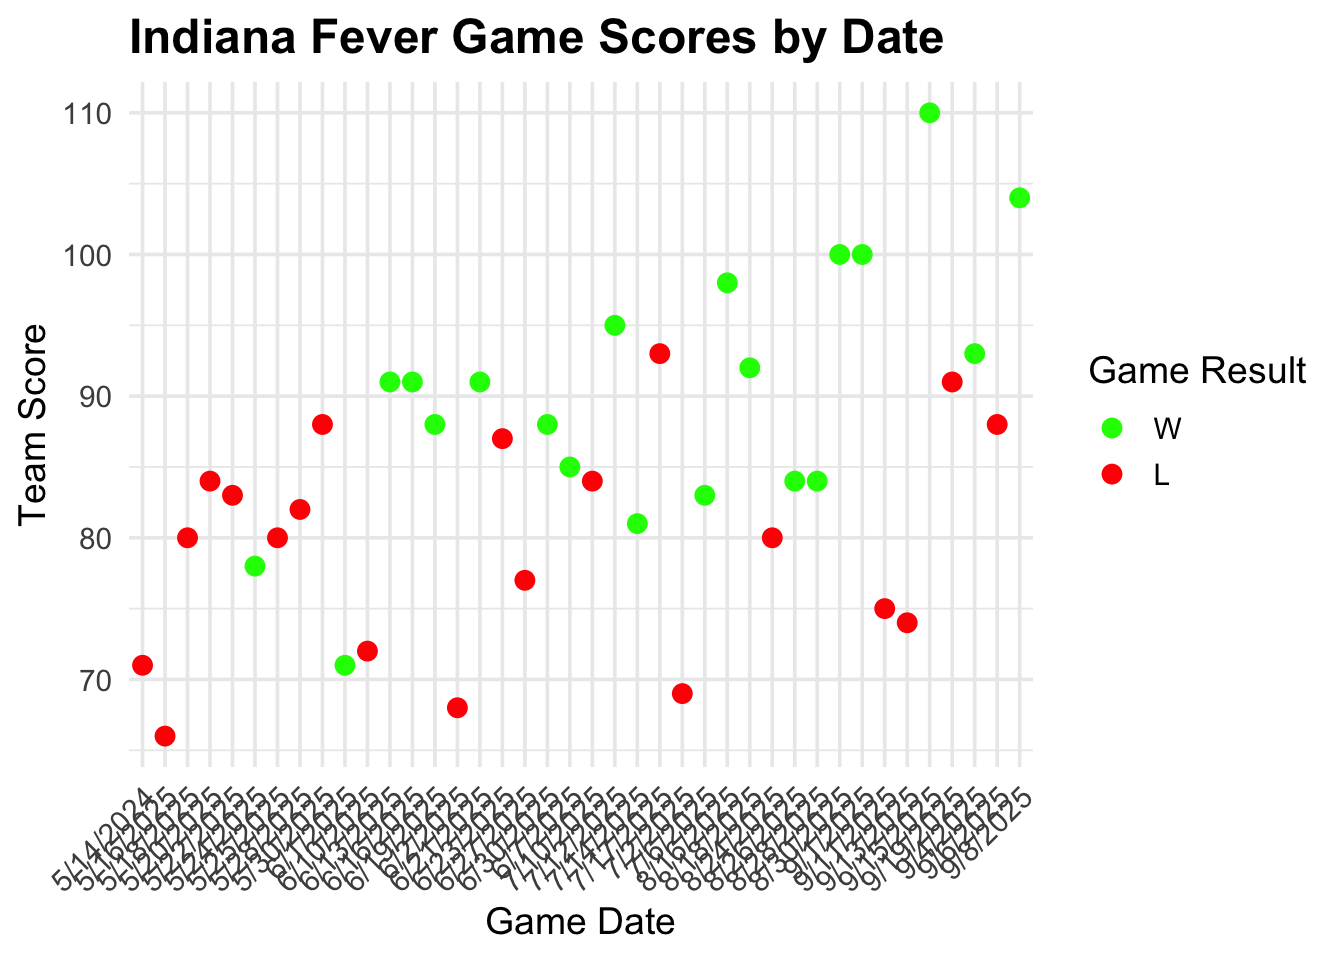
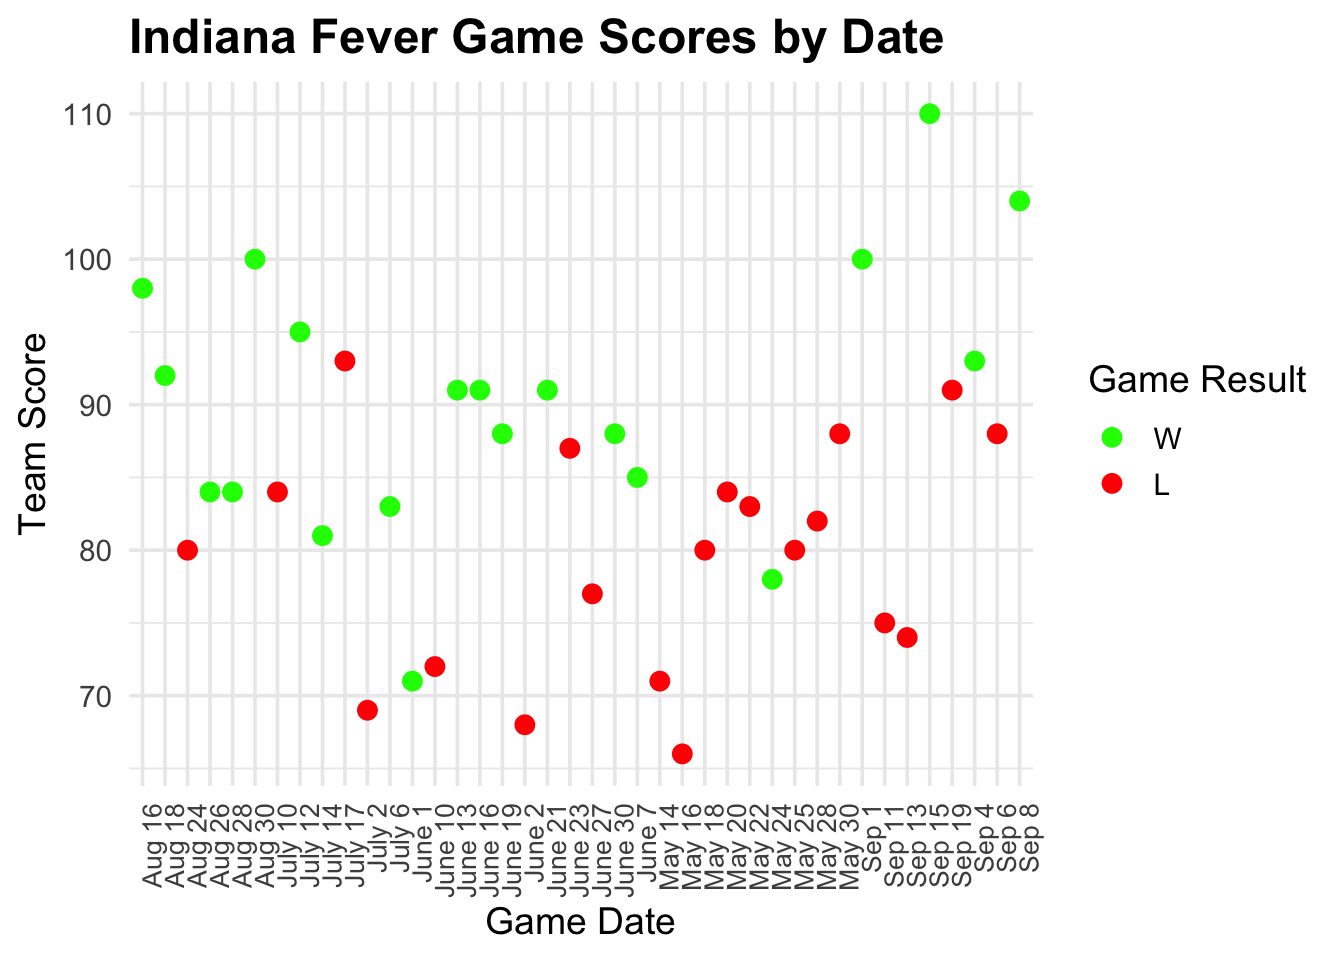
Written Blog

diff --git a/posts/caitlin-clarks-influence-on-indiana-fever/index.html b/posts/caitlin-clarks-influence-on-indiana-fever/index.html
@@ -195,7 +195,9 @@ pre > code.sourceCode > span > a:first-child::before { text-decoration: underlin
 
 
 
-<p>Despite finishing 14-26, Clark set the WNBA single-season assist record, averaged 19.2 points per game, and drove a 182% surge in ticket sales, proving her impact beyond wins and losses.</p>
+<p>Despite the Indiana Fever finishing their 2024 season with a not-great record of 20-20, Caitlin Clark, the number one WNBA draft pick of 2024, averaged 19.2 points per game, proving her impact beyond wins and losses.</p>
+<p>Coming off of 4 years at the University of Iowa, Clark was a household name. Objectively, Clark is a sharp point guard who’s three pointer shots were a trustworthy source of success for the Hawkeyes. Now in the WNBA, it’s debated across the sports world whether or not Caitlin Clark is as crucial to her team in her professional career as she was in college, leading the Hawkeyes to a record of 31-7 in 2023.</p>
+<p>To fully understand her influence, we start with her general stats. Interestingly enough, Clark’s rookie year statistics are similar to the top veteran players in the WNBA.</p>
 <div class="cell">
 <details class="code-fold">
 <summary>Code</summary>
@@ -261,33 +263,31 @@ pre > code.sourceCode > span > a:first-child::before { text-decoration: underlin
 </div>
 </div>
 </div>
+<p>We see that Caitlin Clark sits competitively in the top 10 point-collectors in the WNBA. Her average is similar to two-time gold medalist, Jewell Loyd’s, who was drafted to the WNBA in 2015 by the Seattle Storm. Clark sits only slightly behind Breanna Stewart, three-time gold medalist. Stewart was the first overall pick in the 2016 WNBA draft by the Seattle Storm. So why should we care? Let’s look at the season that Indiana had in 2024.</p>
 <div class="cell">
 <details class="code-fold">
 <summary>Code</summary>
-<div class="sourceCode cell-code" id="cb2"><pre class="sourceCode r code-with-copy"><code class="sourceCode r"><span id="cb2-1"><a href="#cb2-1" aria-hidden="true" tabindex="-1"></a><span class="co"># Load data</span></span>
-<span id="cb2-2"><a href="#cb2-2" aria-hidden="true" tabindex="-1"></a>IndianaFever <span class="ot">&lt;-</span> <span class="fu">read_csv</span>(<span class="st">"team_score.csv"</span>)</span>
-<span id="cb2-3"><a href="#cb2-3" aria-hidden="true" tabindex="-1"></a></span>
-<span id="cb2-4"><a href="#cb2-4" aria-hidden="true" tabindex="-1"></a><span class="co"># Select and prepare necessary columns</span></span>
-<span id="cb2-5"><a href="#cb2-5" aria-hidden="true" tabindex="-1"></a>IndianaFever <span class="ot">&lt;-</span> IndianaFever <span class="sc">%&gt;%</span></span>
-<span id="cb2-6"><a href="#cb2-6" aria-hidden="true" tabindex="-1"></a>  <span class="fu">select</span>(game_date, Score, <span class="st">`</span><span class="at">W/L</span><span class="st">`</span>) <span class="sc">%&gt;%</span></span>
-<span id="cb2-7"><a href="#cb2-7" aria-hidden="true" tabindex="-1"></a>  <span class="fu">mutate</span>(<span class="st">`</span><span class="at">W/L</span><span class="st">`</span> <span class="ot">=</span> <span class="fu">factor</span>(<span class="st">`</span><span class="at">W/L</span><span class="st">`</span>, <span class="at">levels =</span> <span class="fu">c</span>(<span class="st">"W"</span>, <span class="st">"L"</span>)))  <span class="co"># Ensure proper factor order</span></span>
-<span id="cb2-8"><a href="#cb2-8" aria-hidden="true" tabindex="-1"></a></span>
-<span id="cb2-9"><a href="#cb2-9" aria-hidden="true" tabindex="-1"></a><span class="co"># Create the plot</span></span>
-<span id="cb2-10"><a href="#cb2-10" aria-hidden="true" tabindex="-1"></a><span class="fu">ggplot</span>(IndianaFever, <span class="fu">aes</span>(<span class="at">x =</span> game_date, <span class="at">y =</span> Score)) <span class="sc">+</span></span>
-<span id="cb2-11"><a href="#cb2-11" aria-hidden="true" tabindex="-1"></a>  <span class="fu">geom_line</span>(<span class="at">color =</span> <span class="st">"gray40"</span>, <span class="at">size =</span> <span class="dv">1</span>) <span class="sc">+</span>  <span class="co"># Line showing score progression over time</span></span>
-<span id="cb2-12"><a href="#cb2-12" aria-hidden="true" tabindex="-1"></a>  <span class="fu">geom_point</span>(<span class="fu">aes</span>(<span class="at">color =</span> <span class="st">`</span><span class="at">W/L</span><span class="st">`</span>), <span class="at">size =</span> <span class="dv">3</span>) <span class="sc">+</span>  <span class="co"># Points colored by win/loss</span></span>
-<span id="cb2-13"><a href="#cb2-13" aria-hidden="true" tabindex="-1"></a>  <span class="fu">scale_color_manual</span>(<span class="at">values =</span> <span class="fu">c</span>(<span class="st">"W"</span> <span class="ot">=</span> <span class="st">"green"</span>, <span class="st">"L"</span> <span class="ot">=</span> <span class="st">"red"</span>)) <span class="sc">+</span></span>
-<span id="cb2-14"><a href="#cb2-14" aria-hidden="true" tabindex="-1"></a>  <span class="fu">labs</span>(</span>
-<span id="cb2-15"><a href="#cb2-15" aria-hidden="true" tabindex="-1"></a>    <span class="at">title =</span> <span class="st">"Indiana Fever Game Scores by Date"</span>,</span>
-<span id="cb2-16"><a href="#cb2-16" aria-hidden="true" tabindex="-1"></a>    <span class="at">x =</span> <span class="st">"Game Date"</span>,</span>
-<span id="cb2-17"><a href="#cb2-17" aria-hidden="true" tabindex="-1"></a>    <span class="at">y =</span> <span class="st">"Team Score"</span>,</span>
-<span id="cb2-18"><a href="#cb2-18" aria-hidden="true" tabindex="-1"></a>    <span class="at">color =</span> <span class="st">"Game Result"</span></span>
-<span id="cb2-19"><a href="#cb2-19" aria-hidden="true" tabindex="-1"></a>  ) <span class="sc">+</span></span>
-<span id="cb2-20"><a href="#cb2-20" aria-hidden="true" tabindex="-1"></a>  <span class="fu">theme_minimal</span>(<span class="at">base_size =</span> <span class="dv">14</span>) <span class="sc">+</span></span>
-<span id="cb2-21"><a href="#cb2-21" aria-hidden="true" tabindex="-1"></a>  <span class="fu">theme</span>(</span>
-<span id="cb2-22"><a href="#cb2-22" aria-hidden="true" tabindex="-1"></a>    <span class="at">axis.text.x =</span> <span class="fu">element_text</span>(<span class="at">angle =</span> <span class="dv">45</span>, <span class="at">hjust =</span> <span class="dv">1</span>),</span>
-<span id="cb2-23"><a href="#cb2-23" aria-hidden="true" tabindex="-1"></a>    <span class="at">plot.title =</span> <span class="fu">element_text</span>(<span class="at">size =</span> <span class="dv">18</span>, <span class="at">face =</span> <span class="st">"bold"</span>)</span>
-<span id="cb2-24"><a href="#cb2-24" aria-hidden="true" tabindex="-1"></a>  )</span></code><button title="Copy to Clipboard" class="code-copy-button"><i class="bi"></i></button></pre></div>
+<div class="sourceCode cell-code" id="cb2"><pre class="sourceCode r code-with-copy"><code class="sourceCode r"><span id="cb2-1"><a href="#cb2-1" aria-hidden="true" tabindex="-1"></a>IndianaFever <span class="ot">&lt;-</span> <span class="fu">read_csv</span>(<span class="st">"team_score.csv"</span>)</span>
+<span id="cb2-2"><a href="#cb2-2" aria-hidden="true" tabindex="-1"></a></span>
+<span id="cb2-3"><a href="#cb2-3" aria-hidden="true" tabindex="-1"></a>IndianaFever <span class="ot">&lt;-</span> IndianaFever <span class="sc">%&gt;%</span></span>
+<span id="cb2-4"><a href="#cb2-4" aria-hidden="true" tabindex="-1"></a>  <span class="fu">select</span>(game_date, Score, <span class="st">`</span><span class="at">W/L</span><span class="st">`</span>) <span class="sc">%&gt;%</span></span>
+<span id="cb2-5"><a href="#cb2-5" aria-hidden="true" tabindex="-1"></a>  <span class="fu">mutate</span>(<span class="st">`</span><span class="at">W/L</span><span class="st">`</span> <span class="ot">=</span> <span class="fu">factor</span>(<span class="st">`</span><span class="at">W/L</span><span class="st">`</span>, <span class="at">levels =</span> <span class="fu">c</span>(<span class="st">"W"</span>, <span class="st">"L"</span>)))  </span>
+<span id="cb2-6"><a href="#cb2-6" aria-hidden="true" tabindex="-1"></a></span>
+<span id="cb2-7"><a href="#cb2-7" aria-hidden="true" tabindex="-1"></a><span class="fu">ggplot</span>(IndianaFever, <span class="fu">aes</span>(<span class="at">x =</span> game_date, <span class="at">y =</span> Score)) <span class="sc">+</span></span>
+<span id="cb2-8"><a href="#cb2-8" aria-hidden="true" tabindex="-1"></a>  <span class="fu">geom_line</span>(<span class="at">color =</span> <span class="st">"gray40"</span>, <span class="at">size =</span> <span class="dv">1</span>) <span class="sc">+</span>  </span>
+<span id="cb2-9"><a href="#cb2-9" aria-hidden="true" tabindex="-1"></a>  <span class="fu">geom_point</span>(<span class="fu">aes</span>(<span class="at">color =</span> <span class="st">`</span><span class="at">W/L</span><span class="st">`</span>), <span class="at">size =</span> <span class="dv">3</span>) <span class="sc">+</span>  </span>
+<span id="cb2-10"><a href="#cb2-10" aria-hidden="true" tabindex="-1"></a>  <span class="fu">scale_color_manual</span>(<span class="at">values =</span> <span class="fu">c</span>(<span class="st">"W"</span> <span class="ot">=</span> <span class="st">"green"</span>, <span class="st">"L"</span> <span class="ot">=</span> <span class="st">"red"</span>)) <span class="sc">+</span></span>
+<span id="cb2-11"><a href="#cb2-11" aria-hidden="true" tabindex="-1"></a>  <span class="fu">labs</span>(</span>
+<span id="cb2-12"><a href="#cb2-12" aria-hidden="true" tabindex="-1"></a>    <span class="at">title =</span> <span class="st">"Indiana Fever Game Scores by Date"</span>,</span>
+<span id="cb2-13"><a href="#cb2-13" aria-hidden="true" tabindex="-1"></a>    <span class="at">x =</span> <span class="st">"Game Date"</span>,</span>
+<span id="cb2-14"><a href="#cb2-14" aria-hidden="true" tabindex="-1"></a>    <span class="at">y =</span> <span class="st">"Team Score"</span>,</span>
+<span id="cb2-15"><a href="#cb2-15" aria-hidden="true" tabindex="-1"></a>    <span class="at">color =</span> <span class="st">"Game Result"</span></span>
+<span id="cb2-16"><a href="#cb2-16" aria-hidden="true" tabindex="-1"></a>  ) <span class="sc">+</span></span>
+<span id="cb2-17"><a href="#cb2-17" aria-hidden="true" tabindex="-1"></a>  <span class="fu">theme_minimal</span>(<span class="at">base_size =</span> <span class="dv">14</span>) <span class="sc">+</span></span>
+<span id="cb2-18"><a href="#cb2-18" aria-hidden="true" tabindex="-1"></a>  <span class="fu">theme</span>(</span>
+<span id="cb2-19"><a href="#cb2-19" aria-hidden="true" tabindex="-1"></a>    <span class="at">axis.text.x =</span> <span class="fu">element_text</span>(<span class="at">size =</span> <span class="dv">10</span>, <span class="at">angle =</span> <span class="dv">90</span>, <span class="at">hjust =</span> <span class="dv">1</span>),</span>
+<span id="cb2-20"><a href="#cb2-20" aria-hidden="true" tabindex="-1"></a>    <span class="at">plot.title =</span> <span class="fu">element_text</span>(<span class="at">size =</span> <span class="dv">18</span>, <span class="at">face =</span> <span class="st">"bold"</span>)</span>
+<span id="cb2-21"><a href="#cb2-21" aria-hidden="true" tabindex="-1"></a>  )</span></code><button title="Copy to Clipboard" class="code-copy-button"><i class="bi"></i></button></pre></div>
 </details>
 <div class="cell-output-display">
 <div>
@@ -297,6 +297,7 @@ pre > code.sourceCode > span > a:first-child::before { text-decoration: underlin
 </div>
 </div>
 </div>
+<p>The Fever had just as many losses as wins in 2024. A 20-20 record doesn’t seem that great when it places them 6th in the league out of 12 teams. Except for the fact that the Fever finished 2024 with their best season record since 2012. The Fever qualified for the playoffs in 2024. That’s the first time since 2016. Now let’s see what exactly changed that boosted the Indiana Fever to have such a, relatively, great season in 2024.</p>
 <div class="cell">
 <details class="code-fold">
 <summary>Code</summary>
@@ -305,38 +306,27 @@ pre > code.sourceCode > span > a:first-child::before { text-decoration: underlin
 <span id="cb3-3"><a href="#cb3-3" aria-hidden="true" tabindex="-1"></a>  <span class="fu">mutate</span>(</span>
 <span id="cb3-4"><a href="#cb3-4" aria-hidden="true" tabindex="-1"></a>    <span class="at">Rest_of_Team =</span> Score <span class="sc">-</span> points,  </span>
 <span id="cb3-5"><a href="#cb3-5" aria-hidden="true" tabindex="-1"></a>    <span class="at">win =</span> <span class="fu">if_else</span>(<span class="st">`</span><span class="at">W/L</span><span class="st">`</span> <span class="sc">==</span> <span class="st">"W"</span>, <span class="st">"Win"</span>, <span class="st">"Loss"</span>)  </span>
-<span id="cb3-6"><a href="#cb3-6" aria-hidden="true" tabindex="-1"></a>  )</span></code><button title="Copy to Clipboard" class="code-copy-button"><i class="bi"></i></button></pre></div>
-</details>
-<div class="cell-output cell-output-stderr">
-<pre><code>New names:
-Rows: 40 Columns: 6
-── Column specification
-──────────────────────────────────────────────────────── Delimiter: "," chr
-(3): W/L, Opponent, game_date dbl (2): Score, points lgl (1): ...1
-ℹ Use `spec()` to retrieve the full column specification for this data. ℹ
-Specify the column types or set `show_col_types = FALSE` to quiet this message.
-• `` -&gt; `...1`</code></pre>
-</div>
-<details class="code-fold">
-<summary>Code</summary>
-<div class="sourceCode cell-code" id="cb5"><pre class="sourceCode r code-with-copy"><code class="sourceCode r"><span id="cb5-1"><a href="#cb5-1" aria-hidden="true" tabindex="-1"></a>IndianaFever <span class="ot">&lt;-</span> IndianaFever <span class="sc">%&gt;%</span></span>
-<span id="cb5-2"><a href="#cb5-2" aria-hidden="true" tabindex="-1"></a>  <span class="fu">filter</span>(<span class="sc">!</span><span class="fu">is.na</span>(points), <span class="sc">!</span><span class="fu">is.na</span>(win), <span class="sc">!</span><span class="fu">is.na</span>(Score))</span>
-<span id="cb5-3"><a href="#cb5-3" aria-hidden="true" tabindex="-1"></a></span>
-<span id="cb5-4"><a href="#cb5-4" aria-hidden="true" tabindex="-1"></a><span class="fu">ggplot</span>(IndianaFever, <span class="fu">aes</span>(<span class="at">x =</span> Score, <span class="at">y =</span> points, <span class="at">size =</span> win, <span class="at">color =</span> win)) <span class="sc">+</span></span>
-<span id="cb5-5"><a href="#cb5-5" aria-hidden="true" tabindex="-1"></a>  <span class="fu">geom_point</span>(<span class="at">alpha =</span> <span class="fl">0.7</span>) <span class="sc">+</span></span>
-<span id="cb5-6"><a href="#cb5-6" aria-hidden="true" tabindex="-1"></a>  <span class="fu">scale_size_manual</span>(<span class="at">values =</span> <span class="fu">c</span>(<span class="st">"Loss"</span> <span class="ot">=</span> <span class="dv">4</span>, <span class="st">"Win"</span> <span class="ot">=</span> <span class="dv">10</span>)) <span class="sc">+</span></span>
-<span id="cb5-7"><a href="#cb5-7" aria-hidden="true" tabindex="-1"></a>  <span class="fu">scale_color_manual</span>(<span class="at">values =</span> <span class="fu">c</span>(<span class="st">"Win"</span> <span class="ot">=</span> <span class="st">"green"</span>, <span class="st">"Loss"</span> <span class="ot">=</span> <span class="st">"red"</span>)) <span class="sc">+</span></span>
-<span id="cb5-8"><a href="#cb5-8" aria-hidden="true" tabindex="-1"></a>  <span class="fu">labs</span>(</span>
-<span id="cb5-9"><a href="#cb5-9" aria-hidden="true" tabindex="-1"></a>    <span class="at">title =</span> <span class="st">"Caitlin Controls The Fever's Numbers"</span>,</span>
-<span id="cb5-10"><a href="#cb5-10" aria-hidden="true" tabindex="-1"></a>    <span class="at">x =</span> <span class="st">"Indiana Fever's Final Score"</span>,</span>
-<span id="cb5-11"><a href="#cb5-11" aria-hidden="true" tabindex="-1"></a>    <span class="at">y =</span> <span class="st">"Caitlin Clark's Points"</span>,</span>
-<span id="cb5-12"><a href="#cb5-12" aria-hidden="true" tabindex="-1"></a>    <span class="at">size =</span> <span class="st">"Game Result"</span>,</span>
-<span id="cb5-13"><a href="#cb5-13" aria-hidden="true" tabindex="-1"></a>    <span class="at">color =</span> <span class="st">"Game Result"</span></span>
-<span id="cb5-14"><a href="#cb5-14" aria-hidden="true" tabindex="-1"></a>  ) <span class="sc">+</span></span>
-<span id="cb5-15"><a href="#cb5-15" aria-hidden="true" tabindex="-1"></a>  <span class="fu">theme_minimal</span>(<span class="at">base_size =</span> <span class="dv">14</span>) <span class="sc">+</span></span>
-<span id="cb5-16"><a href="#cb5-16" aria-hidden="true" tabindex="-1"></a>  <span class="fu">theme</span>(</span>
-<span id="cb5-17"><a href="#cb5-17" aria-hidden="true" tabindex="-1"></a>    <span class="at">plot.title =</span> <span class="fu">element_text</span>(<span class="at">size =</span> <span class="dv">18</span>, <span class="at">face =</span> <span class="st">"bold"</span>)</span>
-<span id="cb5-18"><a href="#cb5-18" aria-hidden="true" tabindex="-1"></a>  )</span></code><button title="Copy to Clipboard" class="code-copy-button"><i class="bi"></i></button></pre></div>
+<span id="cb3-6"><a href="#cb3-6" aria-hidden="true" tabindex="-1"></a>  )</span>
+<span id="cb3-7"><a href="#cb3-7" aria-hidden="true" tabindex="-1"></a></span>
+<span id="cb3-8"><a href="#cb3-8" aria-hidden="true" tabindex="-1"></a></span>
+<span id="cb3-9"><a href="#cb3-9" aria-hidden="true" tabindex="-1"></a>IndianaFever <span class="ot">&lt;-</span> IndianaFever <span class="sc">%&gt;%</span></span>
+<span id="cb3-10"><a href="#cb3-10" aria-hidden="true" tabindex="-1"></a>  <span class="fu">filter</span>(<span class="sc">!</span><span class="fu">is.na</span>(points), <span class="sc">!</span><span class="fu">is.na</span>(win), <span class="sc">!</span><span class="fu">is.na</span>(Score))</span>
+<span id="cb3-11"><a href="#cb3-11" aria-hidden="true" tabindex="-1"></a></span>
+<span id="cb3-12"><a href="#cb3-12" aria-hidden="true" tabindex="-1"></a><span class="fu">ggplot</span>(IndianaFever, <span class="fu">aes</span>(<span class="at">x =</span> Score, <span class="at">y =</span> points, <span class="at">size =</span> win, <span class="at">color =</span> win)) <span class="sc">+</span></span>
+<span id="cb3-13"><a href="#cb3-13" aria-hidden="true" tabindex="-1"></a>  <span class="fu">geom_point</span>(<span class="at">alpha =</span> <span class="fl">0.7</span>) <span class="sc">+</span></span>
+<span id="cb3-14"><a href="#cb3-14" aria-hidden="true" tabindex="-1"></a>  <span class="fu">scale_size_manual</span>(<span class="at">values =</span> <span class="fu">c</span>(<span class="st">"Loss"</span> <span class="ot">=</span> <span class="dv">4</span>, <span class="st">"Win"</span> <span class="ot">=</span> <span class="dv">10</span>)) <span class="sc">+</span></span>
+<span id="cb3-15"><a href="#cb3-15" aria-hidden="true" tabindex="-1"></a>  <span class="fu">scale_color_manual</span>(<span class="at">values =</span> <span class="fu">c</span>(<span class="st">"Win"</span> <span class="ot">=</span> <span class="st">"green"</span>, <span class="st">"Loss"</span> <span class="ot">=</span> <span class="st">"red"</span>)) <span class="sc">+</span></span>
+<span id="cb3-16"><a href="#cb3-16" aria-hidden="true" tabindex="-1"></a>  <span class="fu">labs</span>(</span>
+<span id="cb3-17"><a href="#cb3-17" aria-hidden="true" tabindex="-1"></a>    <span class="at">title =</span> <span class="st">"Caitlin Controls The Fever's Numbers"</span>,</span>
+<span id="cb3-18"><a href="#cb3-18" aria-hidden="true" tabindex="-1"></a>    <span class="at">x =</span> <span class="st">"Indiana Fever's Final Score"</span>,</span>
+<span id="cb3-19"><a href="#cb3-19" aria-hidden="true" tabindex="-1"></a>    <span class="at">y =</span> <span class="st">"Caitlin Clark's Points"</span>,</span>
+<span id="cb3-20"><a href="#cb3-20" aria-hidden="true" tabindex="-1"></a>    <span class="at">size =</span> <span class="st">"Game Result"</span>,</span>
+<span id="cb3-21"><a href="#cb3-21" aria-hidden="true" tabindex="-1"></a>    <span class="at">color =</span> <span class="st">"Game Result"</span></span>
+<span id="cb3-22"><a href="#cb3-22" aria-hidden="true" tabindex="-1"></a>  ) <span class="sc">+</span></span>
+<span id="cb3-23"><a href="#cb3-23" aria-hidden="true" tabindex="-1"></a>  <span class="fu">theme_minimal</span>(<span class="at">base_size =</span> <span class="dv">14</span>) <span class="sc">+</span></span>
+<span id="cb3-24"><a href="#cb3-24" aria-hidden="true" tabindex="-1"></a>  <span class="fu">theme</span>(</span>
+<span id="cb3-25"><a href="#cb3-25" aria-hidden="true" tabindex="-1"></a>    <span class="at">plot.title =</span> <span class="fu">element_text</span>(<span class="at">size =</span> <span class="dv">18</span>, <span class="at">face =</span> <span class="st">"bold"</span>)</span>
+<span id="cb3-26"><a href="#cb3-26" aria-hidden="true" tabindex="-1"></a>  )</span></code><button title="Copy to Clipboard" class="code-copy-button"><i class="bi"></i></button></pre></div>
 </details>
 <div class="cell-output-display">
 <div>
@@ -346,6 +336,7 @@ Specify the column types or set `show_col_types = FALSE` to quiet this message.
 </div>
 </div>
 </div>
+<p>The games that Caitlin Clark scored more points in, the team projected success. The games that Clark had less points scored individually, the team was more often to lose. If we were to base our expectations of the Indiana Fever’s future seasons, I’d say as long as they have Caitlin Clark as a trustworthy point guard, it’s only up from here.</p>
 
 
 

diff --git a/index.html b/index.html
@@ -210,10 +210,10 @@ window.Quarto = {
 
 <div class="quarto-listing quarto-listing-container-default" id="listing-listing">
 <div class="list quarto-listing-default">
-<div class="quarto-post image-right" data-index="0" data-categories="d25iYSUyQ2Jhc2tldGJhbGwlMkNpbmRpYW5h" data-listing-date-sort="1743483600000" data-listing-file-modified-sort="1744667263957" data-listing-date-modified-sort="NaN" data-listing-reading-time-sort="3" data-listing-word-count-sort="595">
+<div class="quarto-post image-right" data-index="0" data-categories="d25iYSUyQ2Jhc2tldGJhbGwlMkNpbmRpYW5h" data-listing-date-sort="1743483600000" data-listing-file-modified-sort="1744670767640" data-listing-date-modified-sort="NaN" data-listing-reading-time-sort="5" data-listing-word-count-sort="936">
 <div class="thumbnail">
 <p><a href="./posts/caitlin-clarks-influence-on-indiana-fever/index.html" class="no-external"></a></p><a href="./posts/caitlin-clarks-influence-on-indiana-fever/index.html" class="no-external">
-<p><img loading="lazy" src="./posts/caitlin-clarks-influence-on-indiana-fever/Headshot copy.jpg" class="thumbnail-image"></p>
+<p><img loading="lazy" src="./posts/caitlin-clarks-influence-on-indiana-fever/image.png" class="thumbnail-image"></p>
 </a><p><a href="./posts/caitlin-clarks-influence-on-indiana-fever/index.html" class="no-external"></a></p>
 </div>
 <div class="body">
@@ -235,7 +235,7 @@ indiana
 </div>
 </div>
 <div class="listing-description">
-<a href="./posts/caitlin-clarks-influence-on-indiana-fever/index.html" class="no-external">Despite finishing 14-26, Clark set the WNBA single-season assist record, averaged 19.2 points per game, and drove a 182% surge in ticket sales, proving her impact beyond…</a>
+<a href="./posts/caitlin-clarks-influence-on-indiana-fever/index.html" class="no-external">Despite the Indiana Fever finishing their 2024 season with a not-great record of 20-20, Caitlin Clark, the number one WNBA draft pick of 2024, averaged 19.2 points per game…</a>
 </div>
 </div>
 <div class="metadata">
